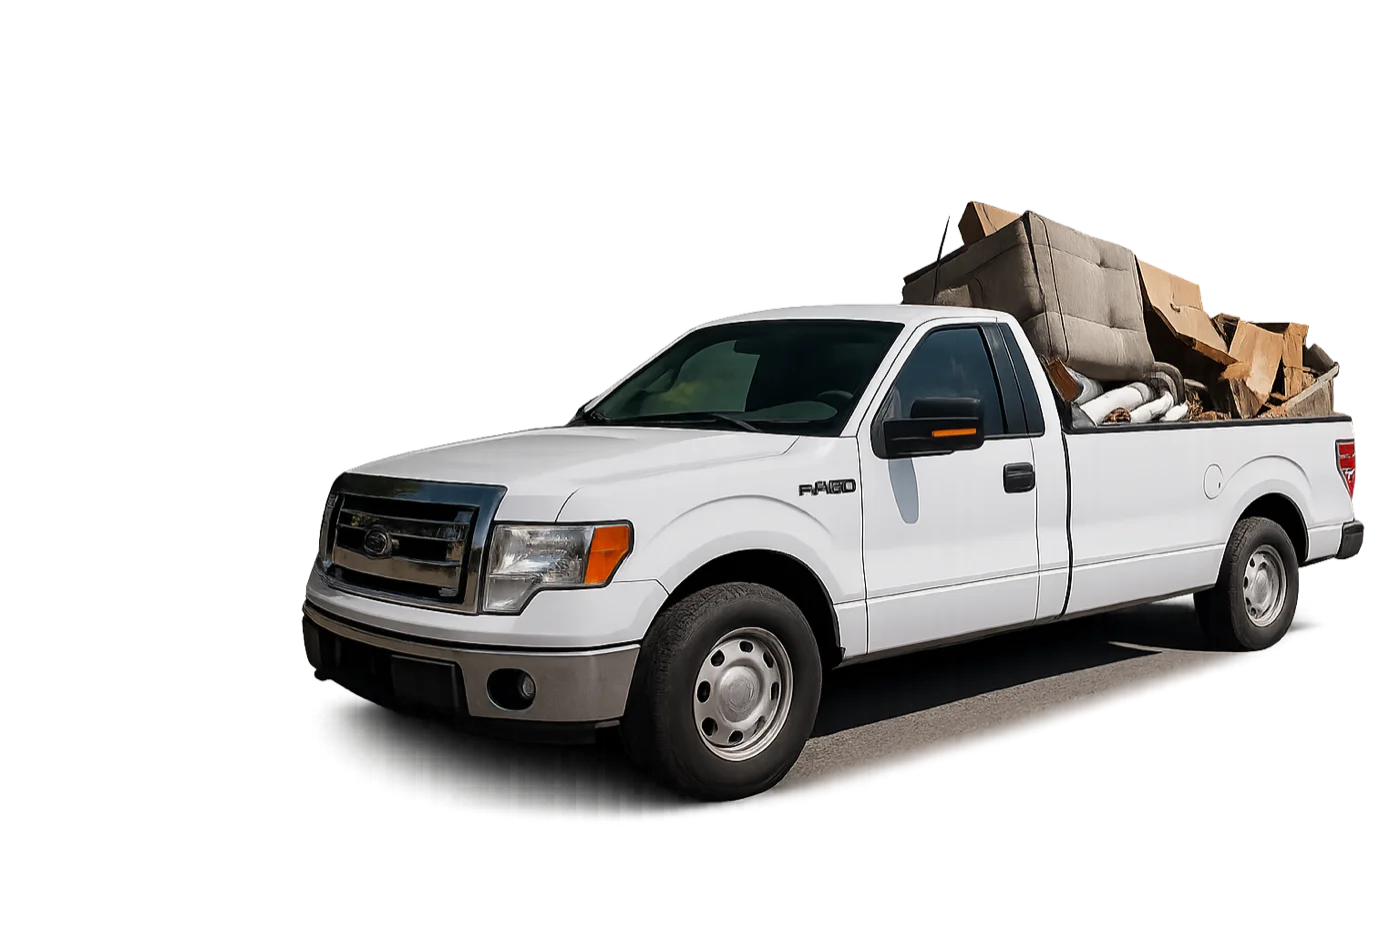
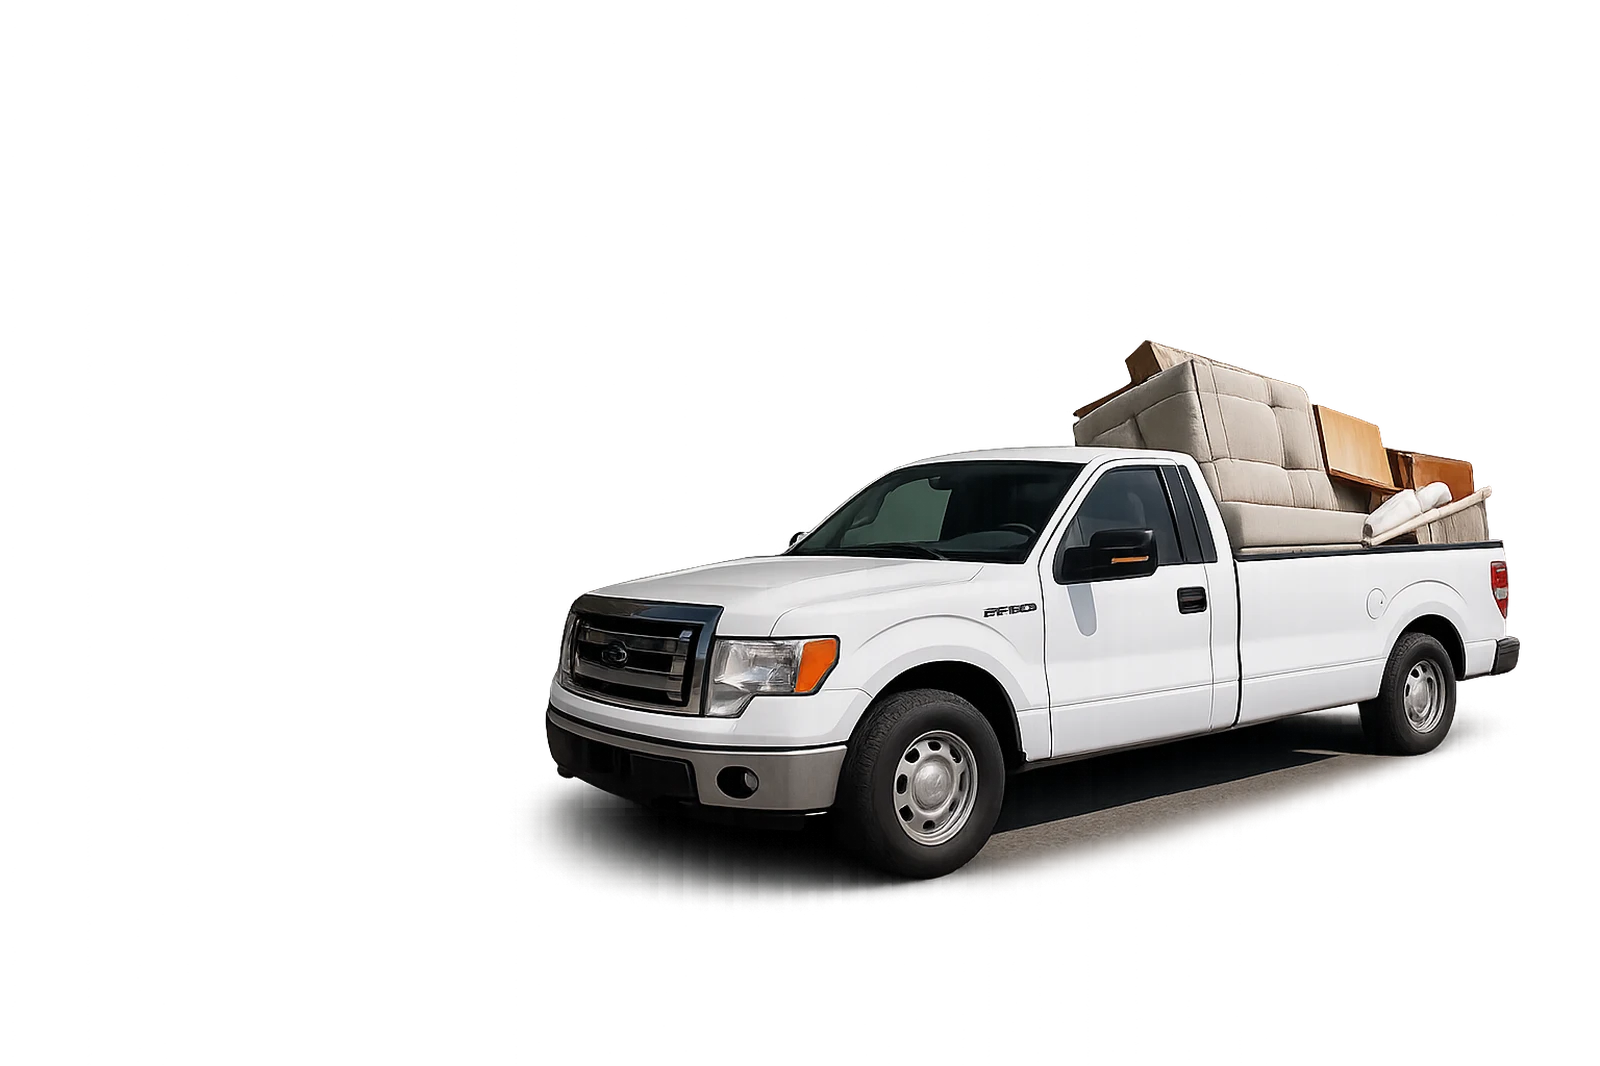
Redesign hero with dominant truck as premium product photography
Desktop:
- Truck occupies ~55% of viewport, absolutely positioned bottom-right
- Extends 5% off-screen right for natural bleed (Tesla/Rivian style)
- Subtle green rim glow behind the truck matching brand
- Deep drop shadow grounds it to the dark surface
- Bottom fade and right-edge fade blend naturally into background
- Copy/CTA anchored left with generous negative space between

Mobile:
- Truck bleeds off right edge (-mr-8) for cinematic feel
- Green glow underneath for brand-integrated lighting
- Larger visual weight, sits between headline and CTA

New cleaner truck image: pristine white F-150 with single sofa
- Communicates professional, organized, trustworthy
- Sells peace of mind, not "a truck full of junk"
- Optimized WebP at 203KB

Changed region(s): [[0.215, 0.2176, 0.9829, 0.9014]]

diff --git a/src/pages/BookingFlow.jsx b/src/pages/BookingFlow.jsx
@@ -385,17 +385,32 @@ export default function BookingFlow() {
         <BrandHeader />
 
         {/* ── Desktop Hero ── */}
-        <div className="hidden lg:flex min-h-[calc(100vh-65px)] relative overflow-hidden">
-          {/* Ambient background lighting */}
+        <div className="hidden lg:block min-h-[calc(100vh-65px)] relative overflow-hidden">
+          {/* Brand-colored ambient lighting */}
           <div className="absolute inset-0 pointer-events-none">
-            <div className="absolute top-1/3 left-1/4 w-[500px] h-[500px] bg-green-500/[0.03] rounded-full blur-[120px]" />
-            <div className="absolute bottom-0 right-1/4 w-[400px] h-[400px] bg-green-500/[0.02] rounded-full blur-[100px]" />
+            <div className="absolute top-[15%] left-[10%] w-[400px] h-[400px] bg-green-500/[0.04] rounded-full blur-[120px]" />
+            <div className="absolute bottom-[20%] right-[30%] w-[500px] h-[500px] bg-green-500/[0.025] rounded-full blur-[140px]" />
           </div>
 
-          {/* Content container */}
-          <div className="max-w-7xl mx-auto w-full flex items-center px-14 xl:px-20 relative">
-            {/* Left: copy + CTA */}
-            <div className="w-[50%] xl:w-[45%] shrink-0 py-16">
+          {/* Truck - positioned absolutely, large, anchored bottom-right, extends off-screen */}
+          <div className="absolute bottom-0 right-0 w-[58%] xl:w-[55%] pointer-events-none" style={{ transform: 'translateX(5%)' }}>
+            {/* Green rim glow behind the truck */}
+            <div className="absolute bottom-[10%] left-1/2 -translate-x-1/2 w-[80%] h-[40%] bg-green-500/[0.06] rounded-full blur-[80px]" />
+            <img
+              src="/truck-hero.webp"
+              alt="Professional junk pickup truck"
+              className="relative w-full object-contain"
+              style={{ filter: 'drop-shadow(0 30px 60px rgba(0,0,0,0.6)) drop-shadow(0 8px 20px rgba(0,0,0,0.4))' }}
+            />
+            {/* Ground shadow / fade */}
+            <div className="absolute bottom-0 left-0 right-0 h-24 bg-gradient-to-t from-gray-950 via-gray-950/80 to-transparent" />
+            {/* Right edge fade so truck bleeds off naturally */}
+            <div className="absolute top-0 right-0 bottom-0 w-20 bg-gradient-to-l from-gray-950 to-transparent" />
+          </div>
+
+          {/* Left: copy + CTA */}
+          <div className="relative z-10 max-w-7xl mx-auto px-14 xl:px-20 flex items-center min-h-[calc(100vh-65px)]">
+            <div className="w-[45%] xl:w-[42%] py-16">
               <h1 className="text-5xl xl:text-[3.75rem] font-black leading-[1.05] tracking-tight mb-6">
                 Junk Gone.<br />
                 <span className="text-green-400">Fast & Easy.</span>
@@ -425,41 +440,32 @@ export default function BookingFlow() {
                 <CompanionTrust text="Reviewed by a real person" />
               </div>
             </div>
-
-            {/* Right: truck as product photography */}
-            <div className="flex-1 flex items-end justify-center relative self-end">
-              <img
-                src="/truck-hero.webp"
-                alt="Junk Pickup truck loaded and ready"
-                className="w-full max-w-2xl object-contain drop-shadow-[0_20px_60px_rgba(0,0,0,0.5)]"
-                style={{ marginBottom: '-2px' }}
-              />
-              {/* Subtle ground reflection / fade */}
-              <div className="absolute bottom-0 left-0 right-0 h-16 bg-gradient-to-t from-gray-950 to-transparent" />
-            </div>
           </div>
         </div>
 
         {/* ── Mobile Hero ── */}
         <div className="lg:hidden">
-          <div className="px-5 pt-10 pb-2 max-w-lg mx-auto">
+          <div className="px-5 pt-10 pb-0 max-w-lg mx-auto">
             <h1 className="text-[2.75rem] font-black leading-[1.08] tracking-tight">
               Junk Gone.<br />
               <span className="text-green-400">Fast & Easy.</span>
             </h1>
-            <p className="text-gray-400 text-lg mt-4 leading-relaxed max-w-sm">
-              Snap a few photos, get a fair estimate, and we'll haul it all away.
+            <p className="text-gray-400 text-lg mt-4 leading-relaxed">
+              Snap photos. Get an estimate. We haul it all away.
             </p>
           </div>
 
-          {/* Truck image - product-style, floating on dark bg */}
-          <div className="relative px-4 -mb-2">
+          {/* Truck - large, bleeds right, product-style */}
+          <div className="relative overflow-hidden -mr-8 pl-4 mt-2 mb-0">
+            {/* Green glow underneath */}
+            <div className="absolute bottom-[15%] left-1/2 -translate-x-1/4 w-[70%] h-[30%] bg-green-500/[0.05] rounded-full blur-[60px]" />
             <img
               src="/truck-hero.webp"
-              alt="Junk Pickup truck loaded and ready"
-              className="w-full max-w-md mx-auto object-contain drop-shadow-[0_12px_40px_rgba(0,0,0,0.4)]"
+              alt="Professional junk pickup truck"
+              className="relative w-full max-w-lg object-contain"
+              style={{ filter: 'drop-shadow(0 16px 40px rgba(0,0,0,0.5))' }}
             />
-            <div className="absolute bottom-0 left-0 right-0 h-10 bg-gradient-to-t from-gray-950 to-transparent" />
+            <div className="absolute bottom-0 left-0 right-0 h-12 bg-gradient-to-t from-gray-950 to-transparent" />
           </div>
 
           <div className="px-5 pb-10 max-w-lg mx-auto">
@@ -472,7 +478,6 @@ export default function BookingFlow() {
             <p className="text-center text-gray-600 text-xs mt-3 font-medium tracking-wide">Takes about 2 minutes</p>
           </div>
 
-          {/* How it works */}
           <div className="px-5 pb-10 max-w-lg mx-auto">
             <h2 className="text-[10px] font-bold tracking-[0.15em] uppercase text-gray-500 mb-6">How it works</h2>
             <div className="space-y-6">